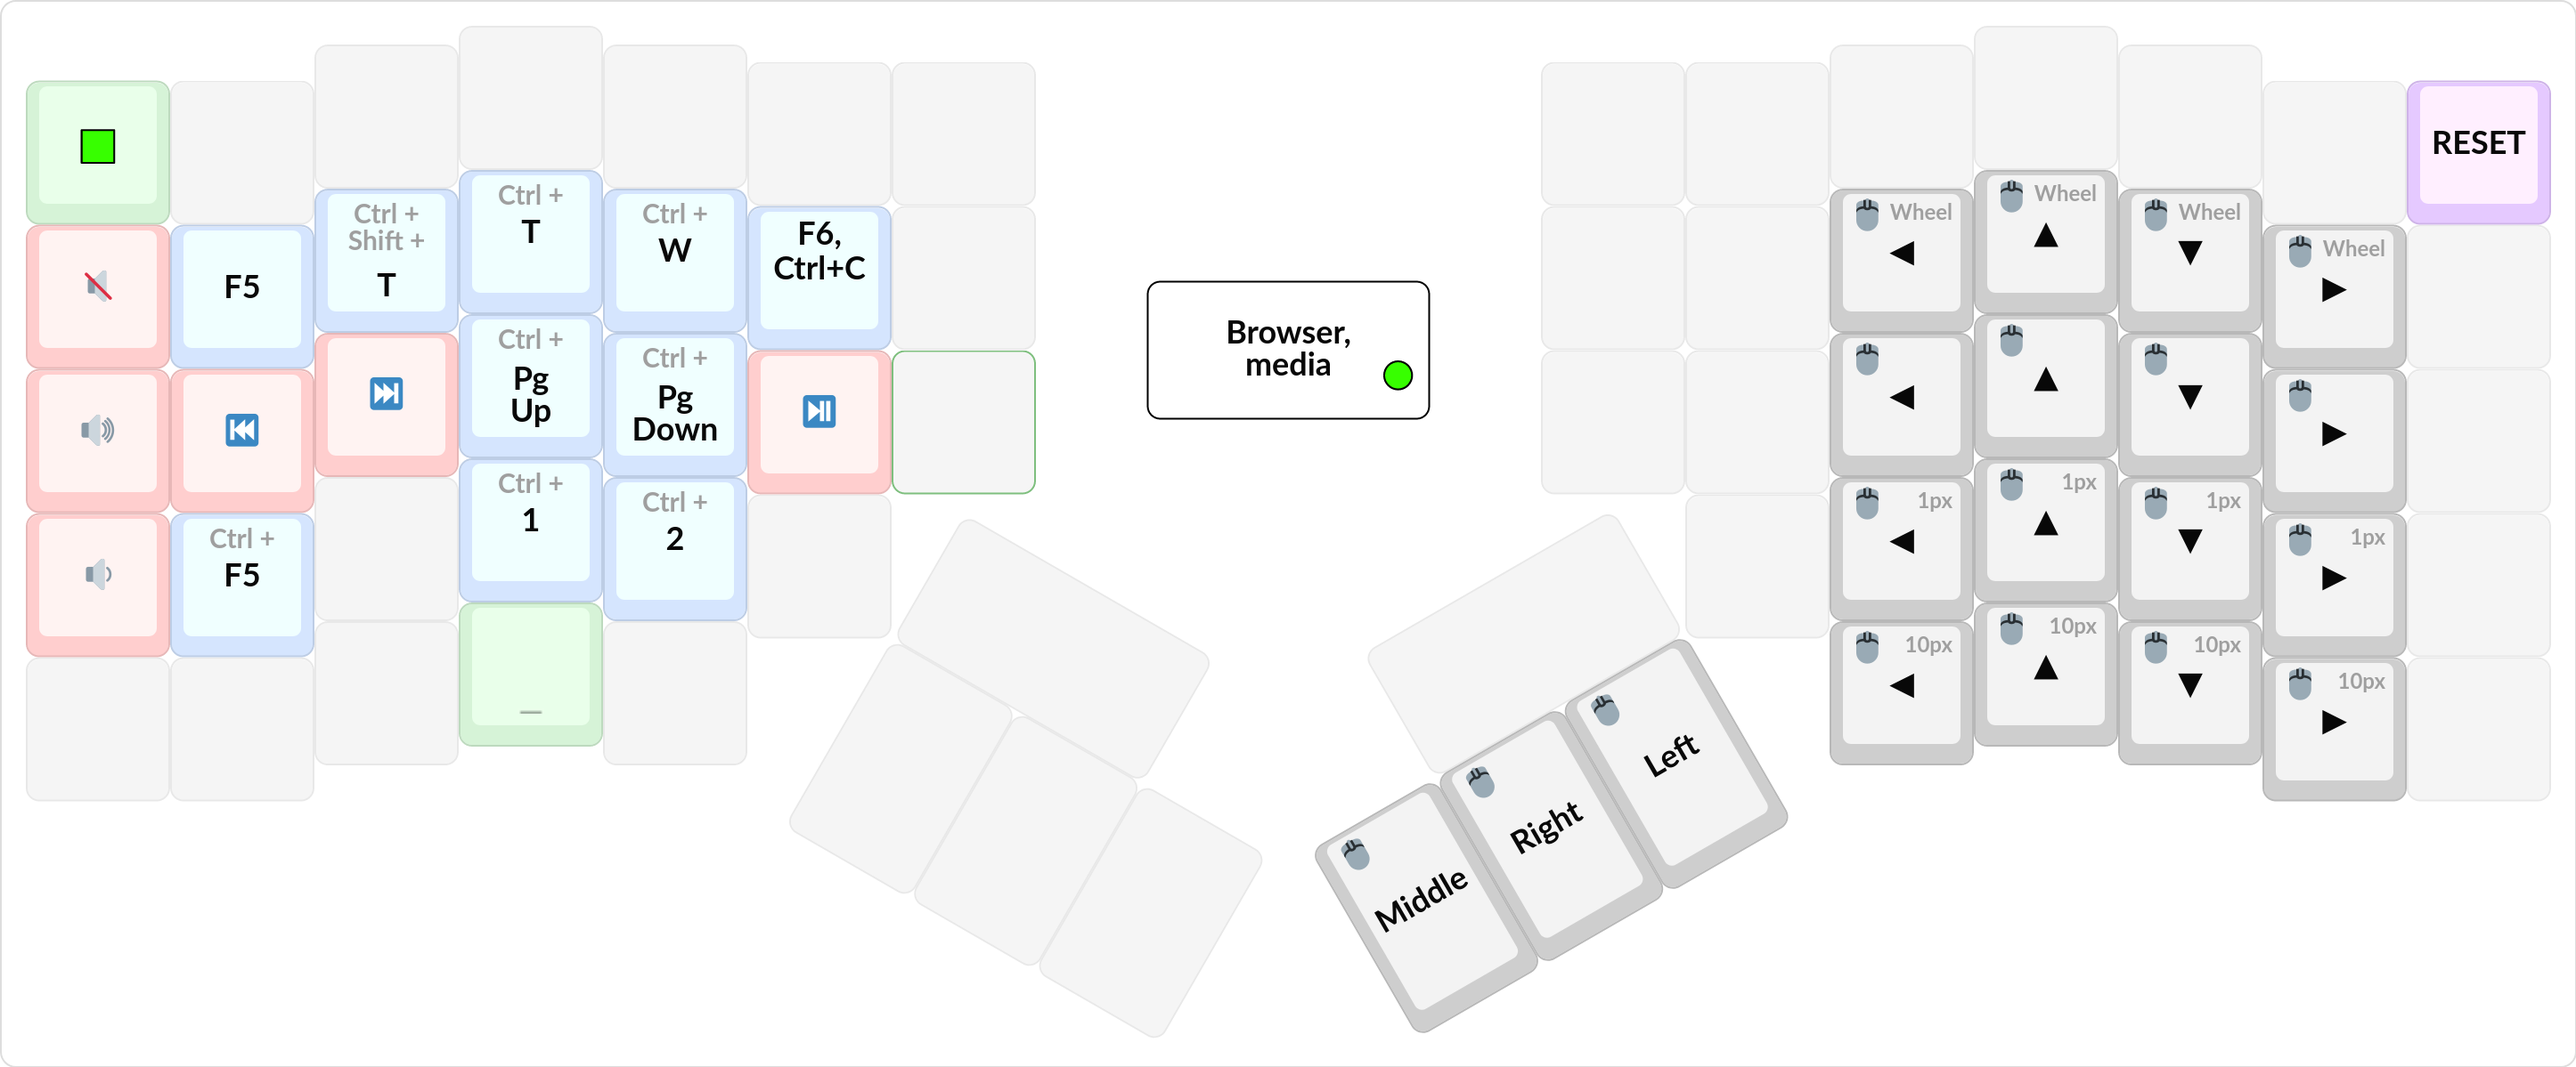
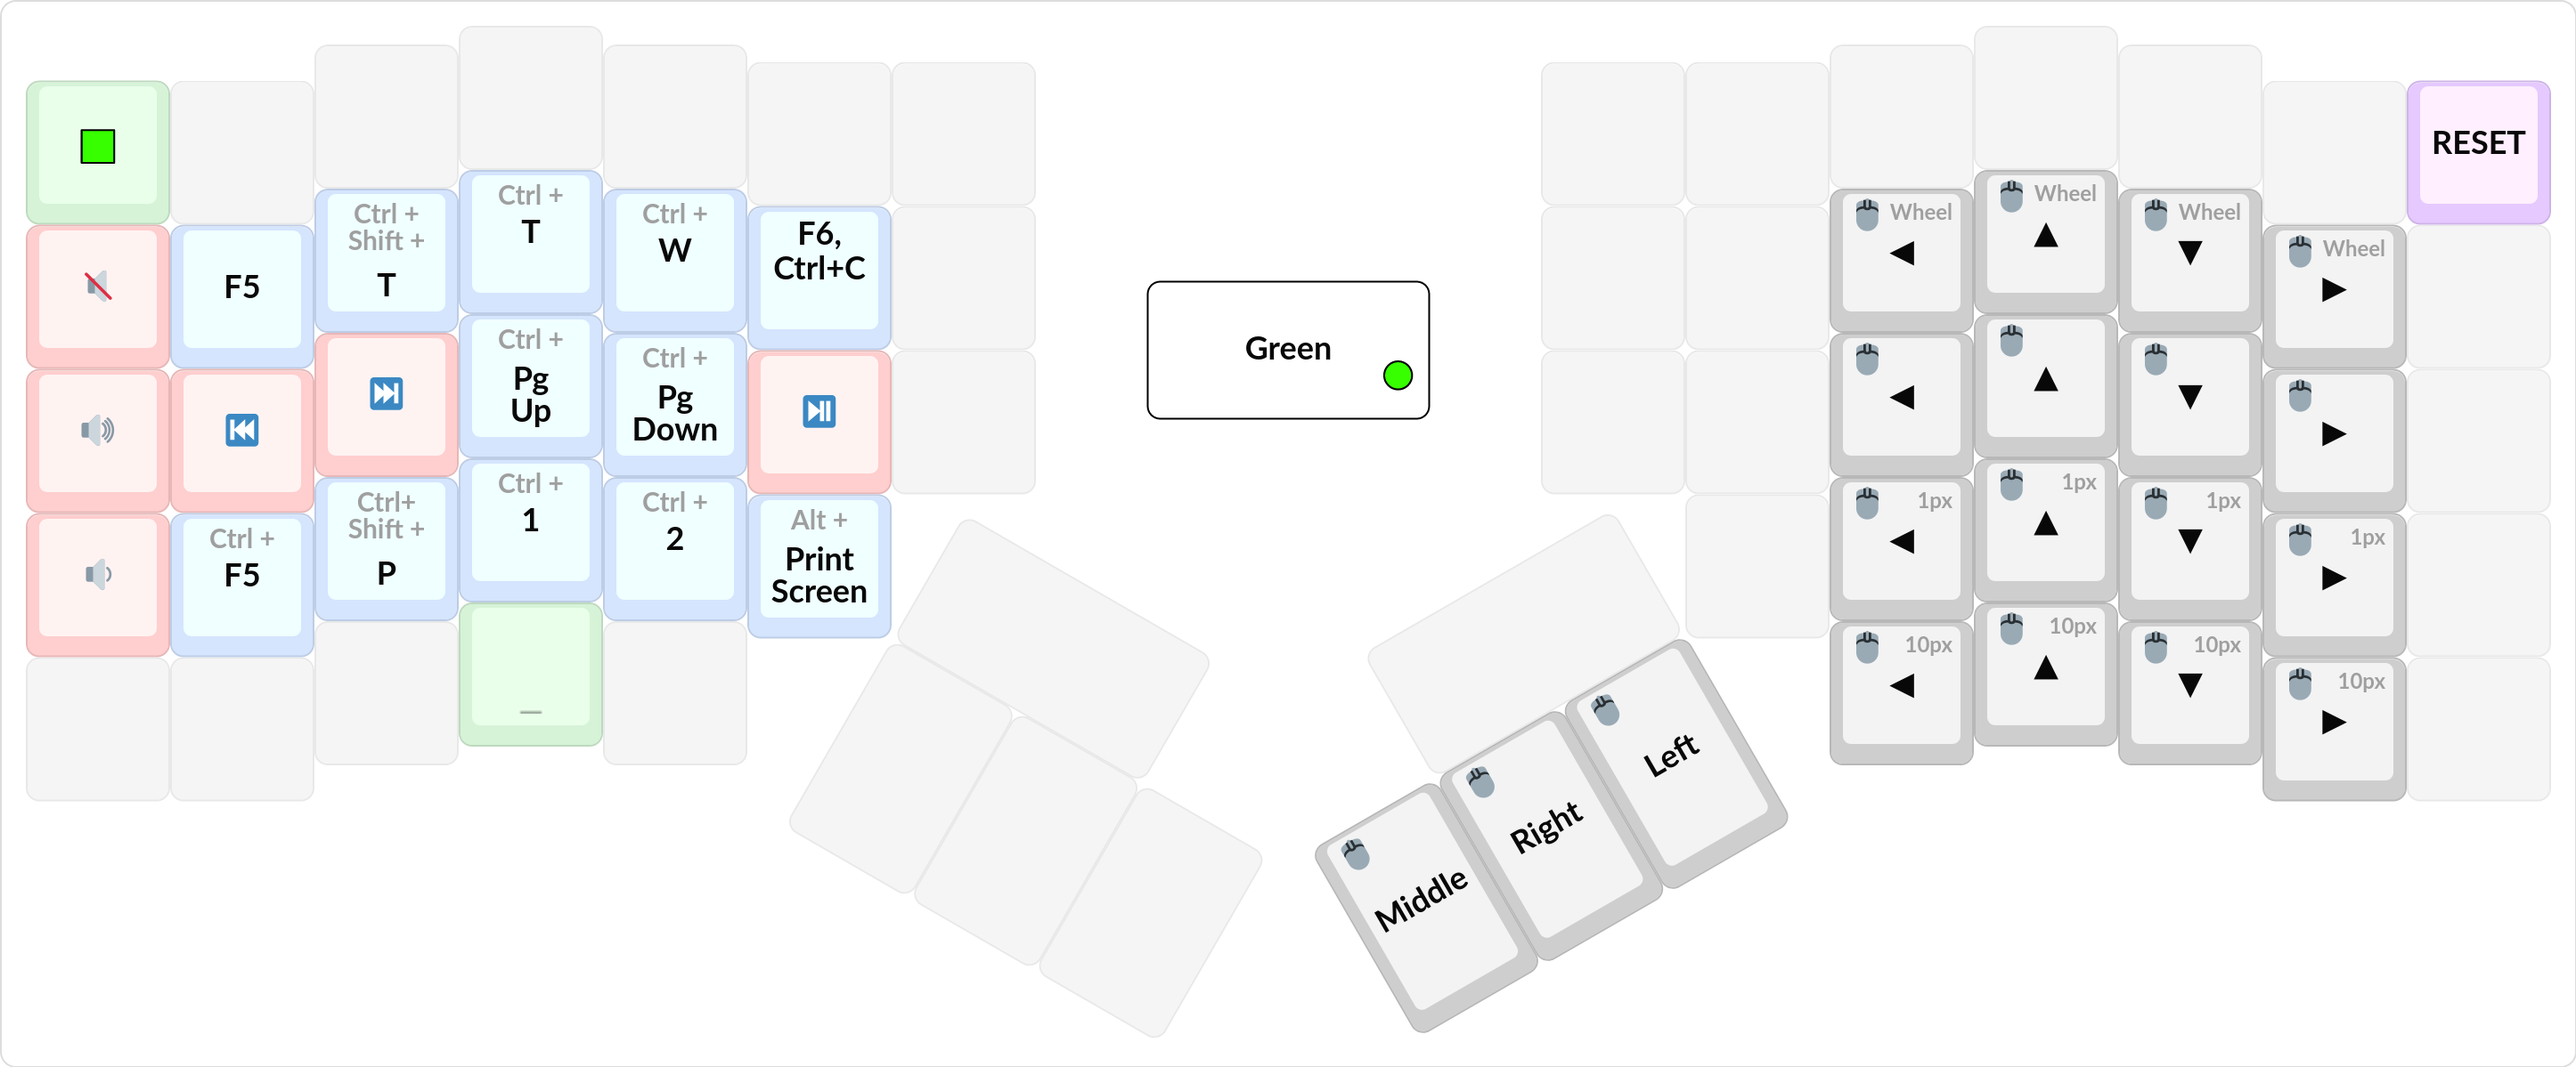
fix layout images

Changed region(s): [[0.2801, 0.4629, 0.3734, 0.6172], [0.1245, 0.432, 0.1867, 0.5863], [0.4668, 0.3086, 0.529, 0.3703]]

diff --git a/README.md b/README.md
@@ -108,9 +108,11 @@
 
 Так же я не хочу вдаваться в споры об эргономике, про которую я ничего не знаю, и которая меня не интересует.
 
-Но в любом случае, у любой правильной клавиатуры, шансов быть эргономичной намного больше, чем у любой СК.
+Но в любом случае, у любой правильной клавиатуры, шансов быть эргономичной намного больше, чем у любой СК. И все эти принципы "правильной" клавиатуры не делают с ней ничего плохо.
 
-**Раскладка** - под этим словом понимается много чего, более подробно можно прочитать тут: http://klavarog.tk/page/термины/виды_раскладок. В данном месте я буду рассказывать о не-буквенной и немного о буквенных раскладках.
+**Раскладка** - под этим словом понимается много чего, на вики можно более подробно прочитать про [виды раскладок](http://klavarog.tk/page/термины/виды_раскладок). В данном месте я буду рассказывать о не-буквенной и немного о буквенных раскладках.
+
+[**Клавогонки**](https://klavogonki.ru) - сайт-тренажёр для слепой печати где можно хорошо развивать скорость печати.
 
 # Про Moonlander
 
@@ -140,10 +142,14 @@
 
 [![](img/zones.png)](https://kle.klava.org/#/gists/337191ca7166c6cb93781f50f71181ca)
 [![](img/base.png)](https://kle.klava.org/#/gists/9a4b993ea6bff1ff0f9b7a33bc755623)
-[![](img/langs.png)](https://kle.klava.org/#/gists/91178524f9e3273d73aec89aefab0ab0)
-[![](img/red_green.png)](https://kle.klava.org/#/gists/2e94ef1a8f6616e655bfc218fcda885e)
-[![](img/violet_yellow.png)](https://kle.klava.org/#/gists/b6323946c89a4dd6b0c5c29c0531132a)
-[![](img/game_nuclear.png)](https://kle.klava.org/#/gists/d119e7590b585c0c3a8706e953f40745)
+[![](img/english.png)](https://kle.klava.org/#/gists/91178524f9e3273d73aec89aefab0ab0)
+[![](img/russian.png)](https://kle.klava.org/#/gists/07c65db22ed9614664a2eb42cf88ef1f)
+[![](img/red.png)](https://kle.klava.org/#/gists/2e94ef1a8f6616e655bfc218fcda885e)
+[![](img/green.png)](https://kle.klava.org/#/gists/0611ab0f9b2546eb385ccd9c35e18782)
+[![](img/violet.png)](https://kle.klava.org/#/gists/b6323946c89a4dd6b0c5c29c0531132a)
+[![](img/yellow.png)](https://kle.klava.org/#/gists/266a463f773aeb71fdd808377a9ea597)
+[![](img/game.png)](https://kle.klava.org/#/gists/d119e7590b585c0c3a8706e953f40745)
+[![](img/nuclear_war_case_layer.png)](https://kle.klava.org/#/gists/5a6a1244d0f353c495d5aa0f3065d2c1)
 
 # Как ты сделал эту раскладку?
 
